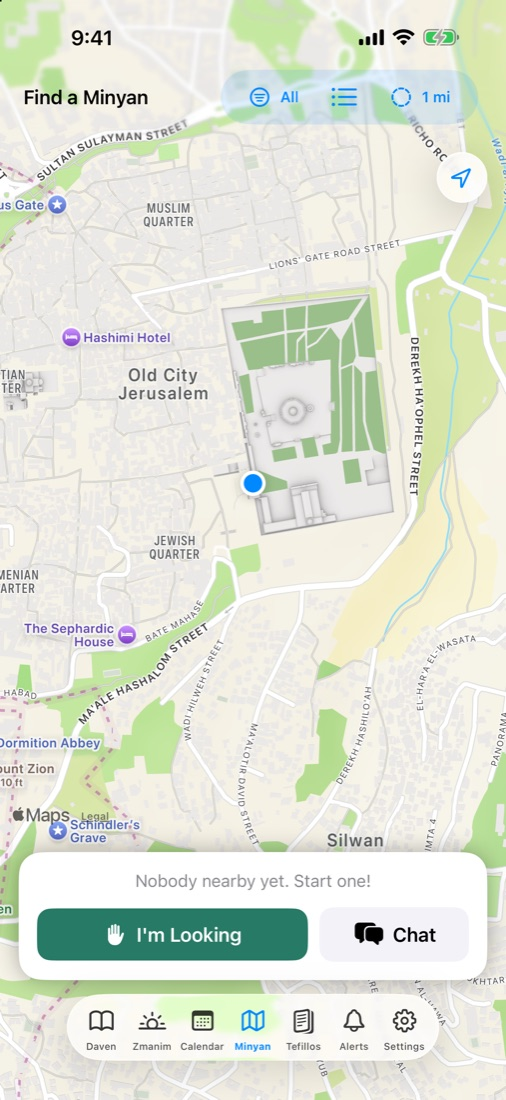
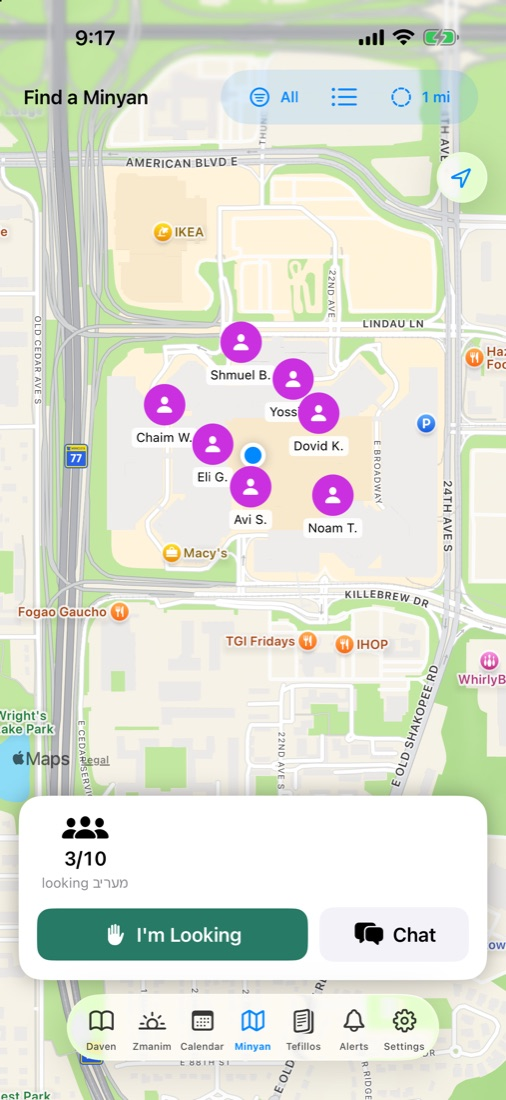
Siddur site: minyan map and chat shots

diff --git a/siddur/index.html b/siddur/index.html
@@ -255,11 +255,14 @@
 </section>
 
 <section class="f flip">
-  <div class="shot"><img src="shots/minyan.jpg" alt="Map of a minyan forming nearby" loading="lazy"></div>
+  <div class="shot pair">
+    <img src="shots/minyan.jpg" alt="People looking for Maariv at a mall, on a map" loading="lazy">
+    <img src="shots/chat.jpg" alt="Chat agreeing where to meet for Maariv" loading="lazy">
+  </div>
   <div>
     <div class="kicker">Minyan</div>
     <h2>Need a minyan? See who's nearby.</h2>
-    <p>Tap "I'm Looking" and people around you see it on the map. Start a minyan at a place and time, and chat with the people coming.</p>
+    <p>Tap "I'm Looking" and people around you see it on the map. A chat for everyone nearby lets you agree where to meet — by the LEGO Store, in the lobby, wherever works.</p>
     <ul class="ticks">
       <li>Get an alert when a minyan forms near you.</li>
       <li>No account — just pick a display name.</li>
